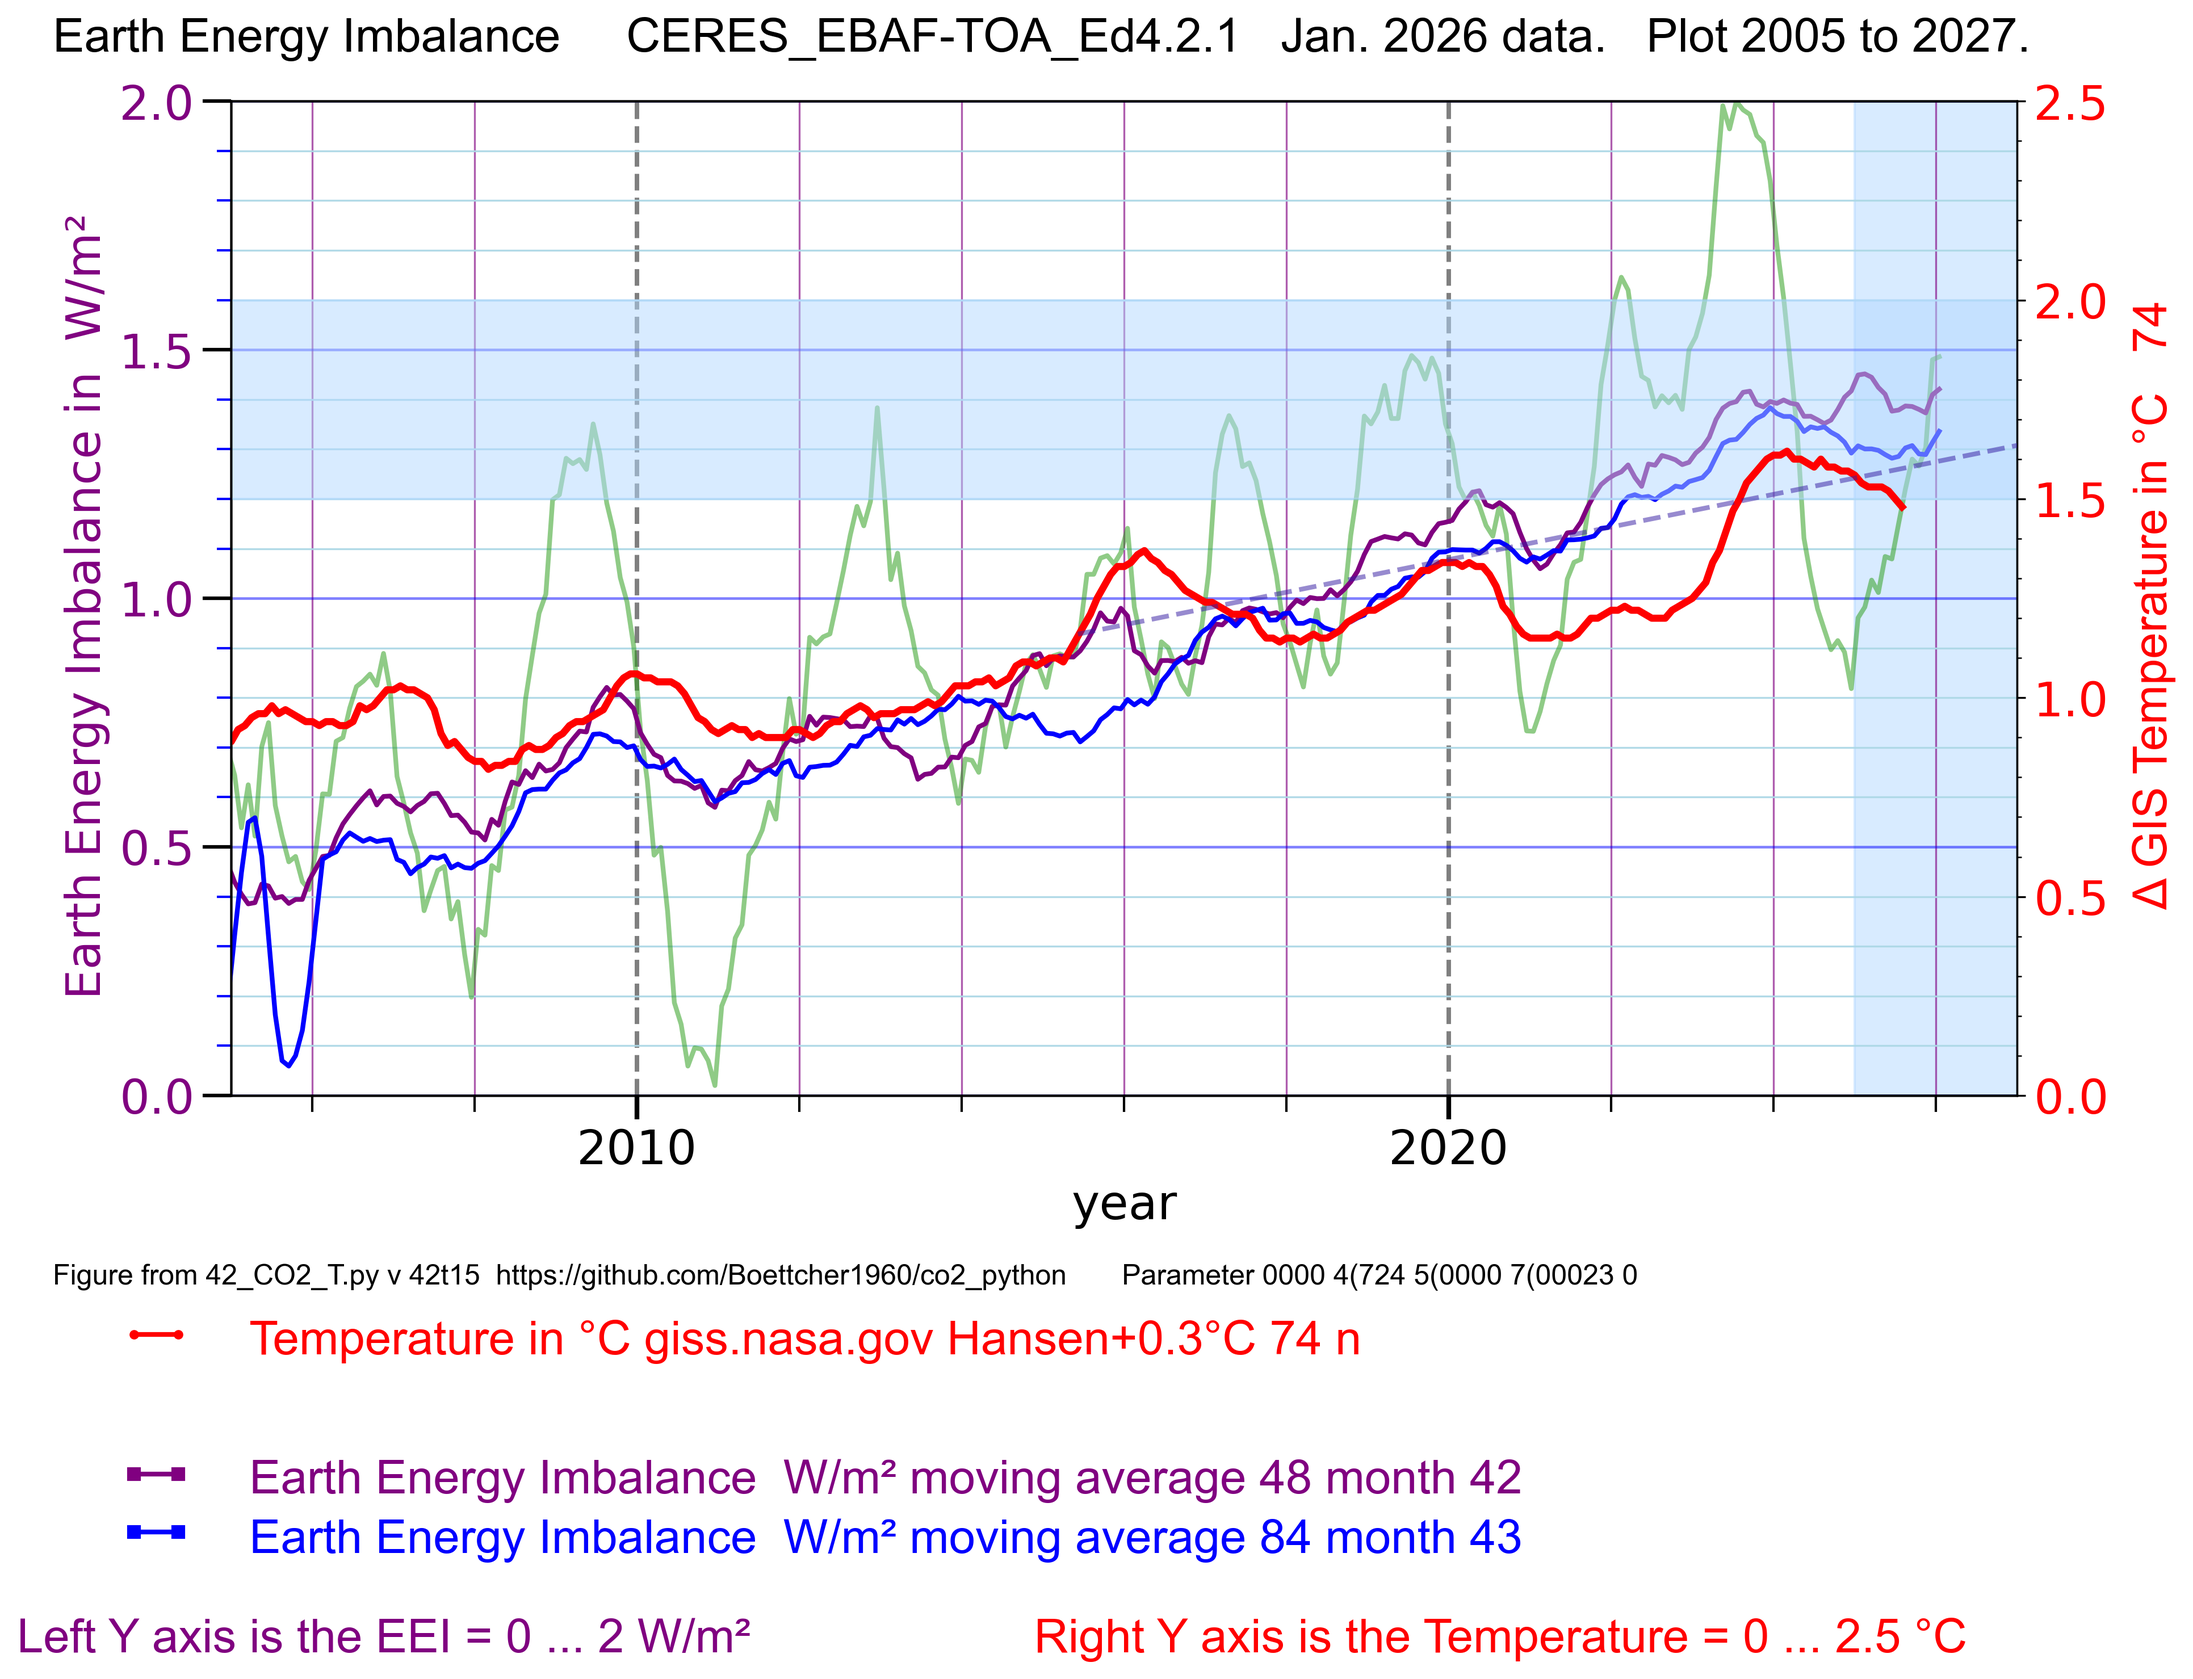
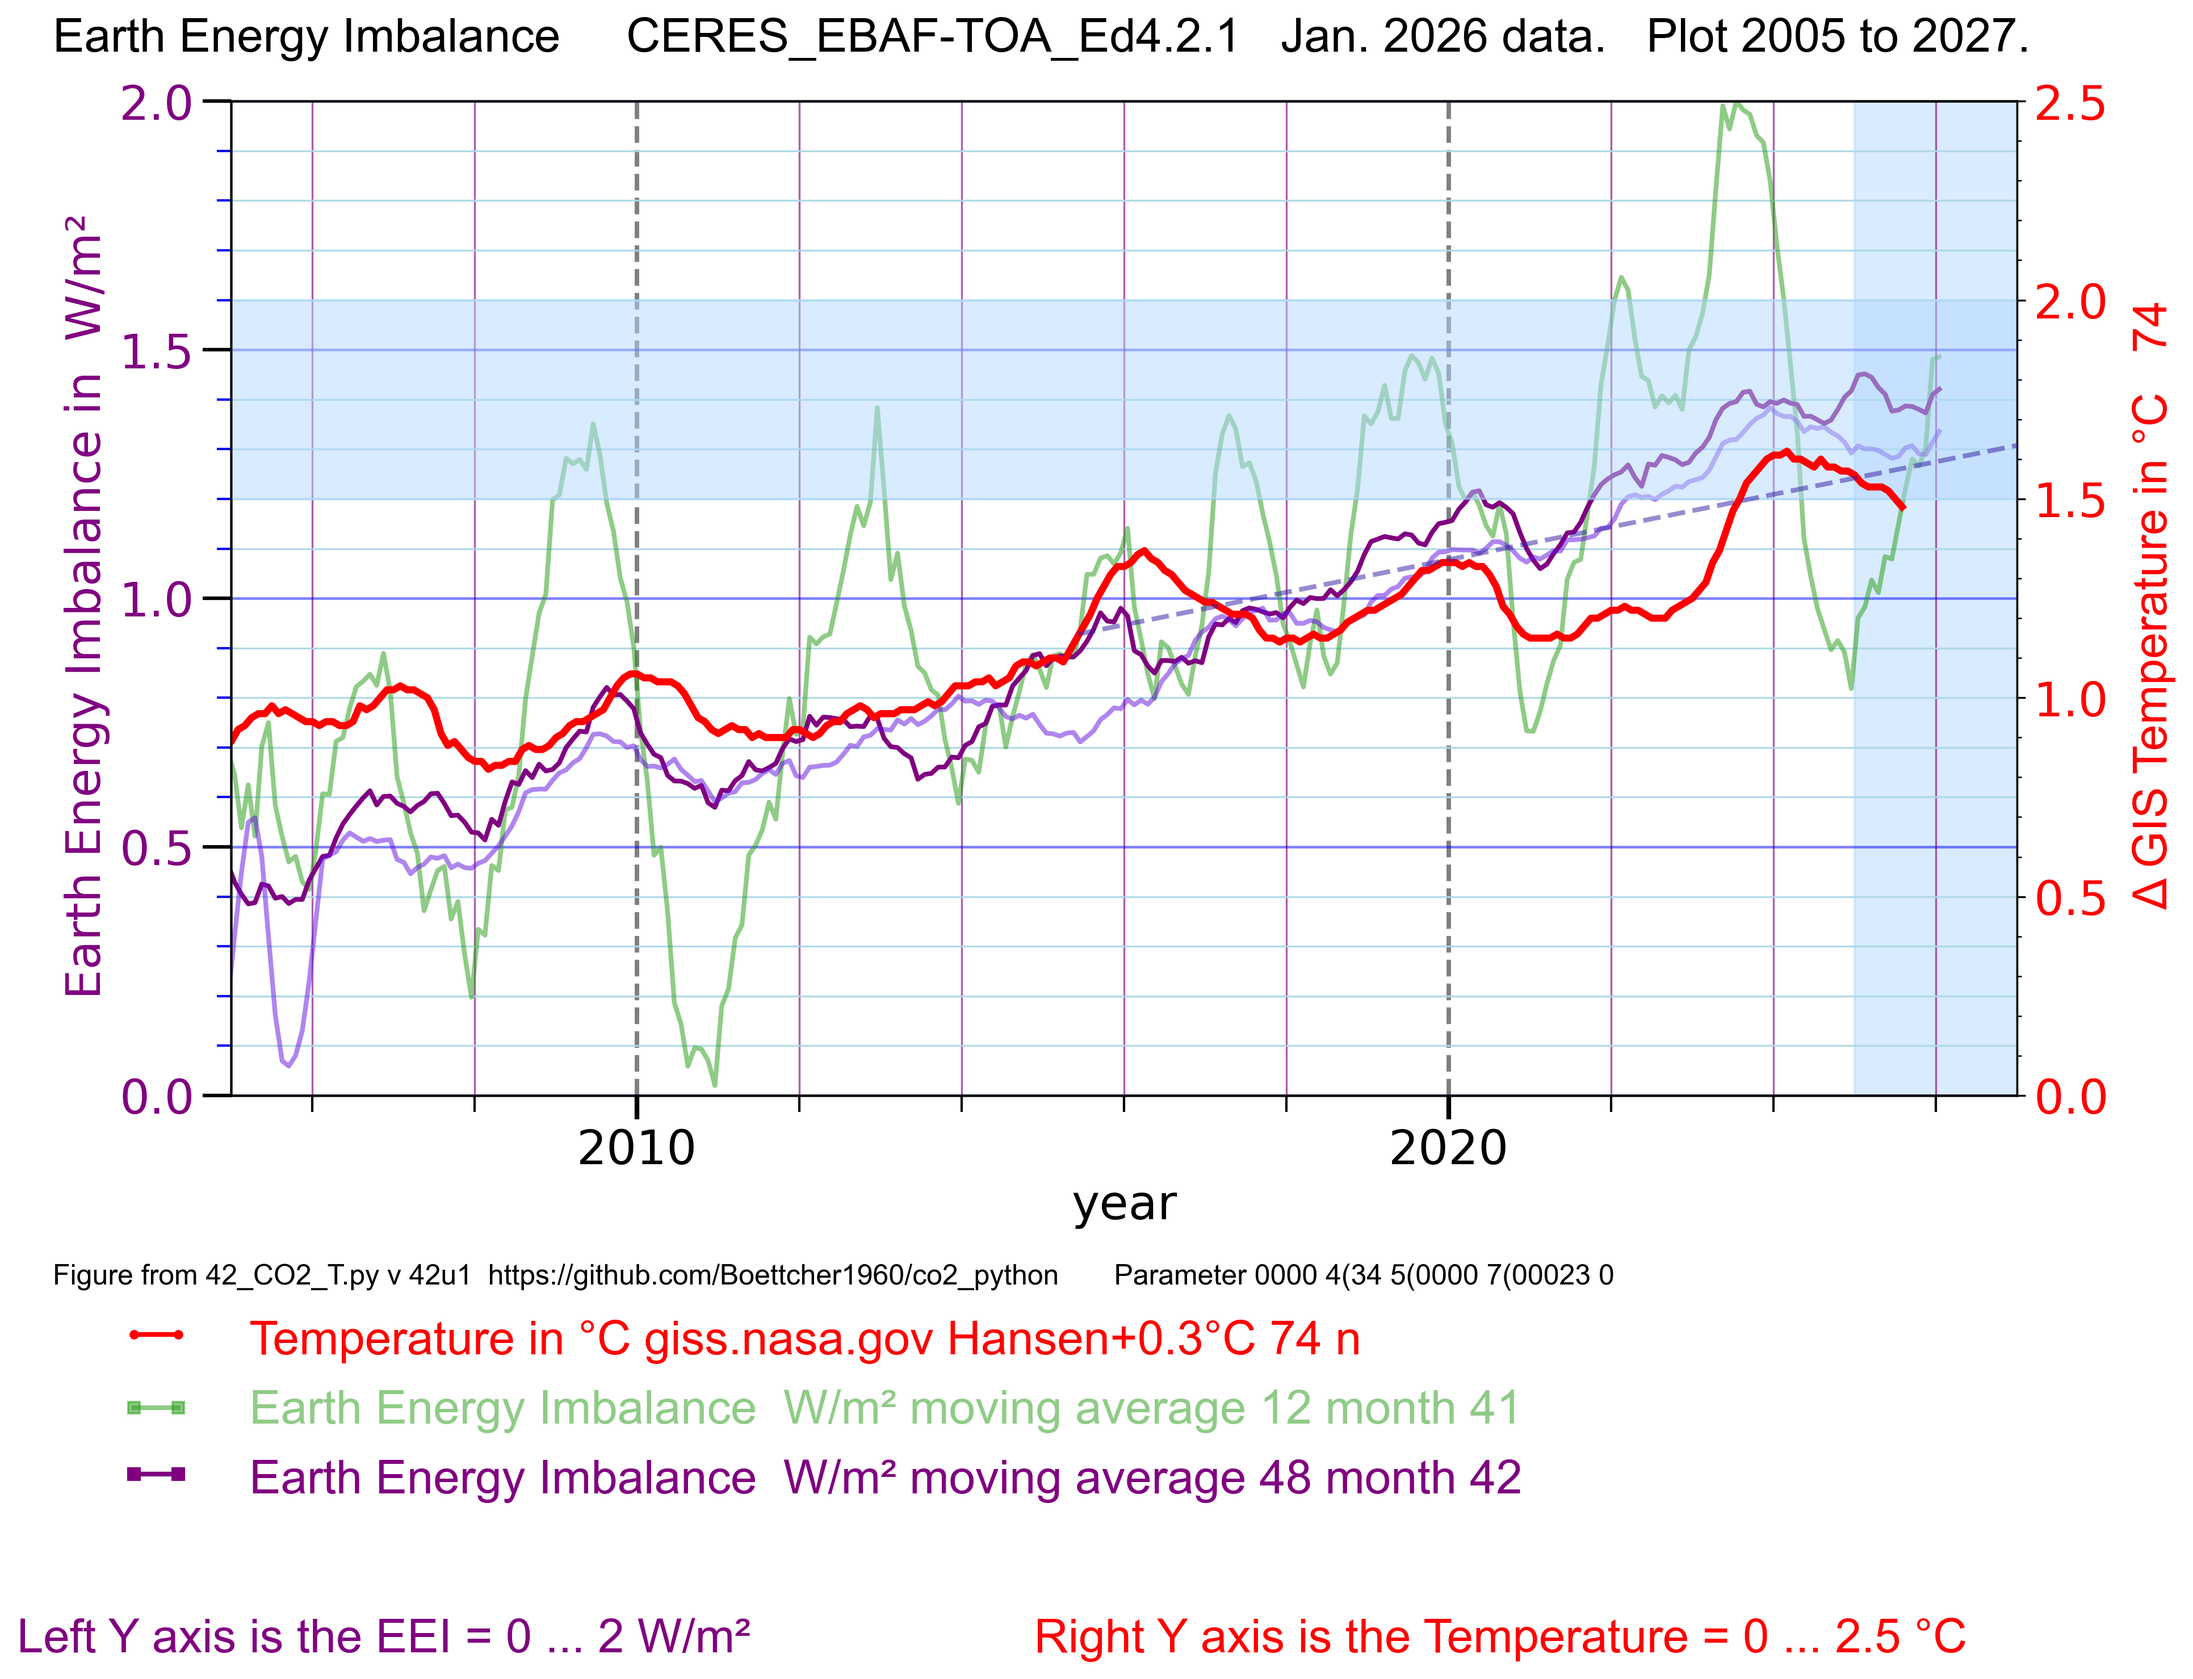
v = "42u1" #  plot 44 shall display also  csv41d_out.csv

diff --git a/42_CO2_T.py b/42_CO2_T.py
@@ -1,5 +1,5 @@
 # 42_CO2_T.py 
-v = "42t15" #  plot 43  csv41d_out.csv
+v = "42u1" #  plot 44 shall display also  csv41d_out.csv
 # Thomas Boettcher
 # part 1 configure 
 # part 2.2 plot CO2 Mauna Loa
@@ -9,6 +9,7 @@ v = "42t15" #  plot 43  csv41d_out.csv
 # part 3.4 plot34_CO2_emission summed
 #
 # part 4 EEI CERES data
+# 
 #
 # part 5.2 plot52_delta_CO2_red_bars
 # part 5.3 plot53_CO2_orange2025
@@ -68,13 +69,17 @@ plot34_CO2_emission = 0 # 33 # 43, 34 row3 mode 4, 42 row 4 mode 2   cumulative 
 c34 = "purple"
 c34 = "#942296C5" 
 # no part 4
-part41_ceres_eei = 72 # 3,5,12,47,48,50,84 convert txt to csv runnig 12 month avg , 48 convert txt to csv runnig 48 month avg
+part41_ceres_eei = 3 # 3,5,12,47,48,50,84 convert txt to csv runnig 12 month avg , 48 convert txt to csv runnig 48 month avg
 c41                 = "#289C1684" # plot41 color
 part42_ceres_eei = 4 
 c42 = "purple"
-part43_ceres_eei = 5 
+part43_ceres_eei = 0 
 c43 =   "#13DF2F84" # plot41 color
 c43 = "blue"
+part44_ceres_eei = 5 
+c44 =   "#6513DF84" # plot41 color
+
+
 
 plot52_delta_CO2_red_bars = 0 # 8 0 7 4 keine delta_CO2 , 1 = delta_CO2 in rot , 7,8 mit Beschriftung   
 plot53_CO2_orange2025 = 0 # 3, 4, 0 orange Glen , 1 = 0.013t² - 51t + 49,536 in rot 3 works plot53_CO2_orange2025
@@ -920,8 +925,18 @@ if part43_ceres_eei > 0:
    ax43 = ax1.twinx()  # twinx(): Shares the same x-axis Adds a new y-axis on the right
    # part 7.4.6 add 0.3°C same as Hansen to GIS
    ax43.plot(df43["decimal_year"], df43["EEI"], '-', label="EEI  K43", color=c43, linewidth=2)
-   ax43.tick_params(axis="y", labelcolor=c42)
+   ax43.tick_params(axis="y", labelcolor=c43)
    ax43.set_ylim(y_Emin, y_Emax) # scale
+
+if part44_ceres_eei > 0:
+   p44_text ="Earth Energy Imbalance  W/m² moving average 84 month 43"
+   df44 = pd.read_csv("csv/csv44/csv41d_out.csv") 
+   # print(df44.head(22)) csv41g48_ceres
+   ax44 = ax1.twinx()  # twinx(): Shares the same x-axis Adds a new y-axis on the right
+   # part 7.4.6 add 0.3°C same as Hansen to GIS
+   ax44.plot(df44["decimal_year"], df44["EEI"], '-', label="EEI  K44", color=c44, linewidth=2)
+   ax44.tick_params(axis="y", labelcolor=c42)
+   ax44.set_ylim(y_Emin, y_Emax) # scale
 
 
 # -----------------------------
@@ -1437,7 +1452,10 @@ if yr_mode == 7: # Temperature
       ax42.tick_params(right=False, labelright=False)  
    if part43_ceres_eei > 0: # delete second y axis
       ax43.spines["right"].set_visible(False)
-      ax43.tick_params(right=False, labelright=False)    
+      ax43.tick_params(right=False, labelright=False)   
+   if part44_ceres_eei > 0: # delete second y axis
+      ax44.spines["right"].set_visible(False)
+      ax44.tick_params(right=False, labelright=False)   
    if linear_41_75 > 0: # delete second y axis
       ax75.spines["right"].set_visible(False)
       ax75.tick_params(right=False, labelright=False)  
